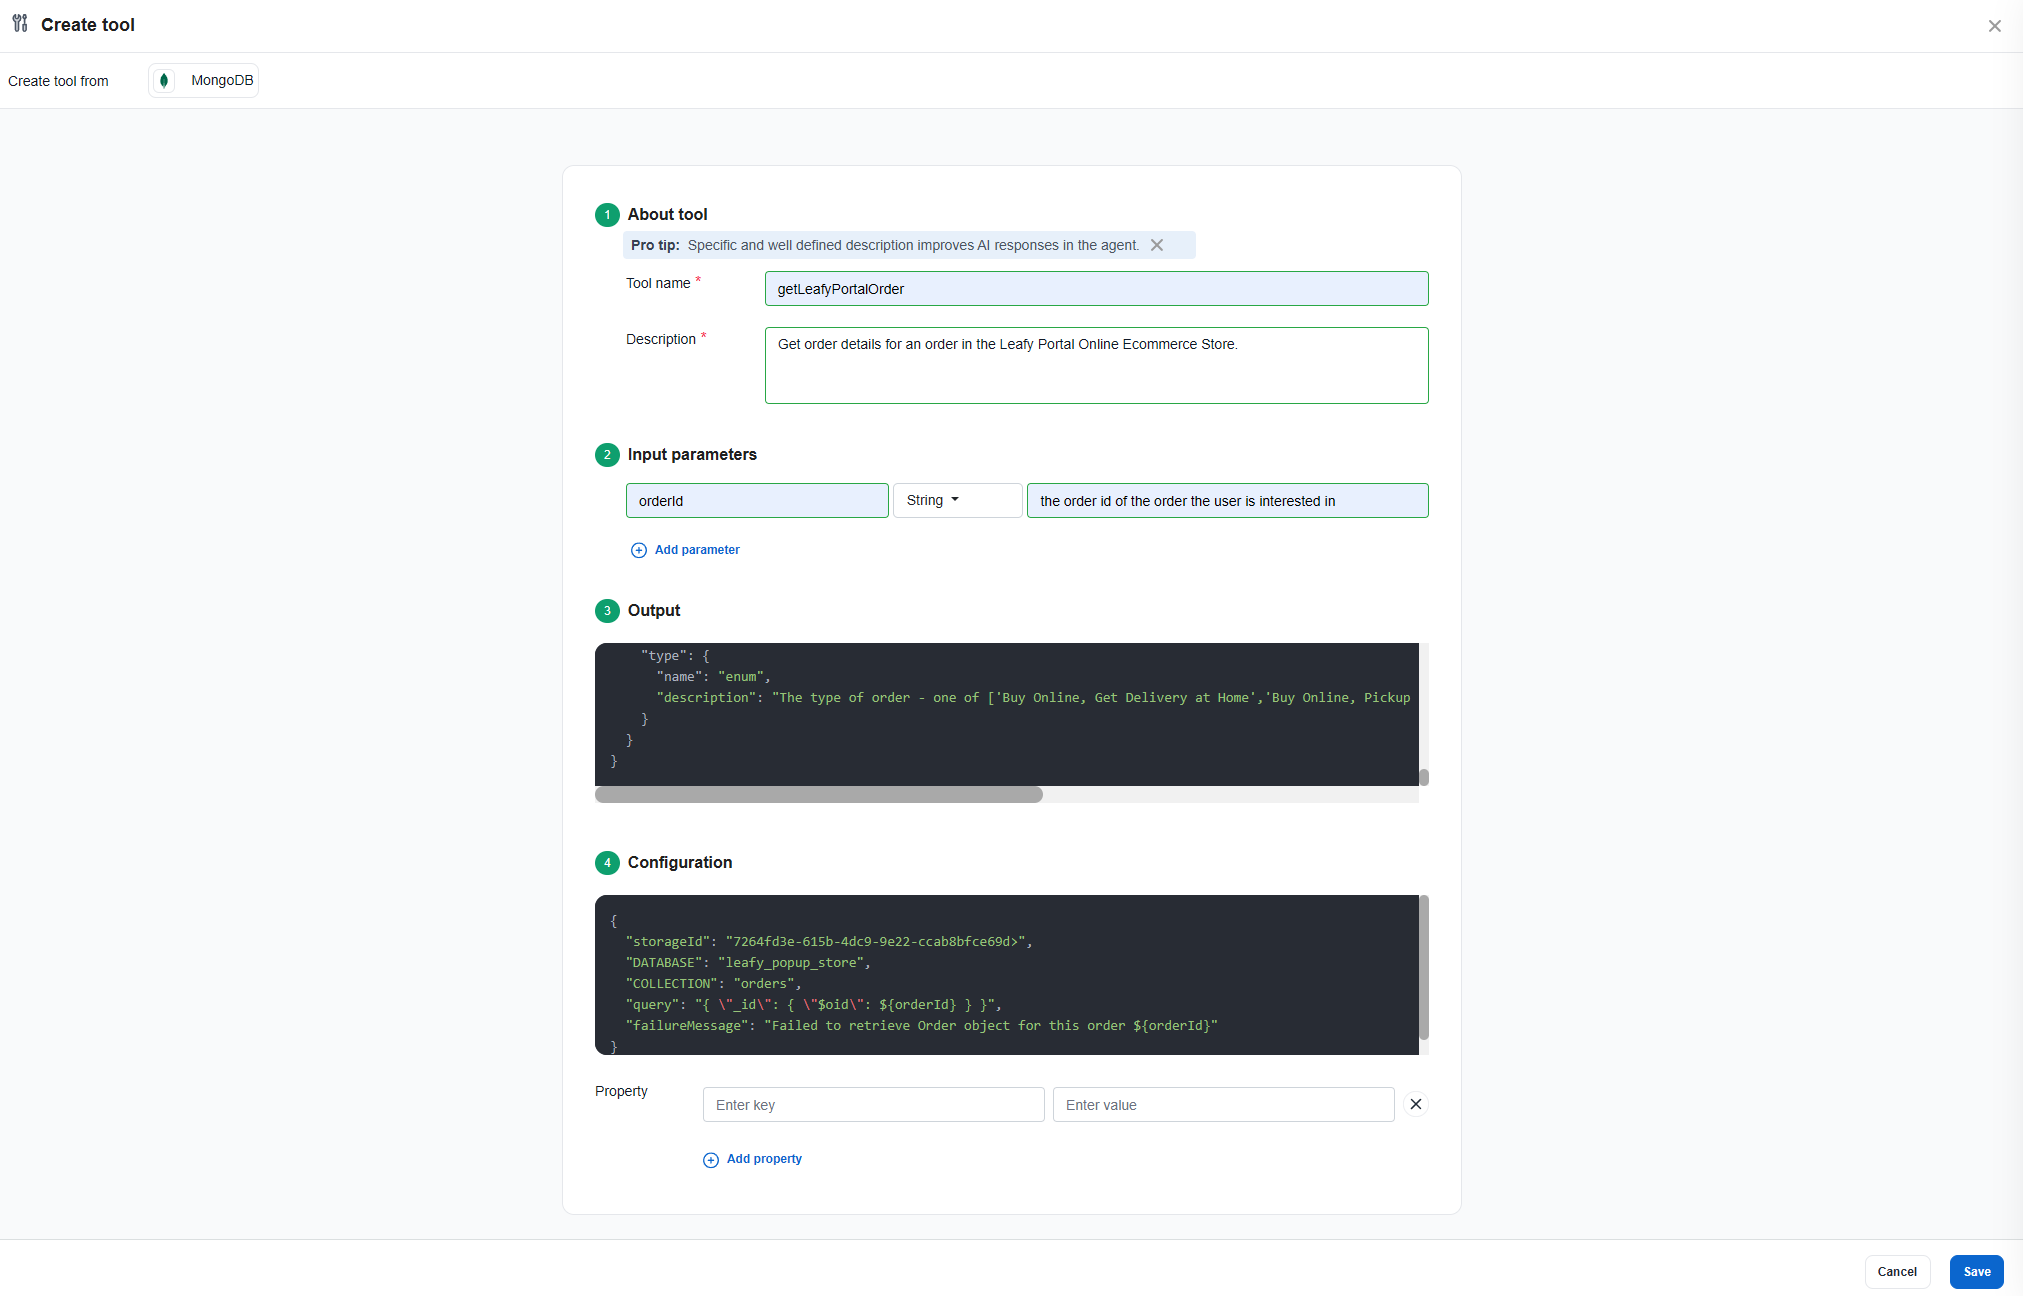
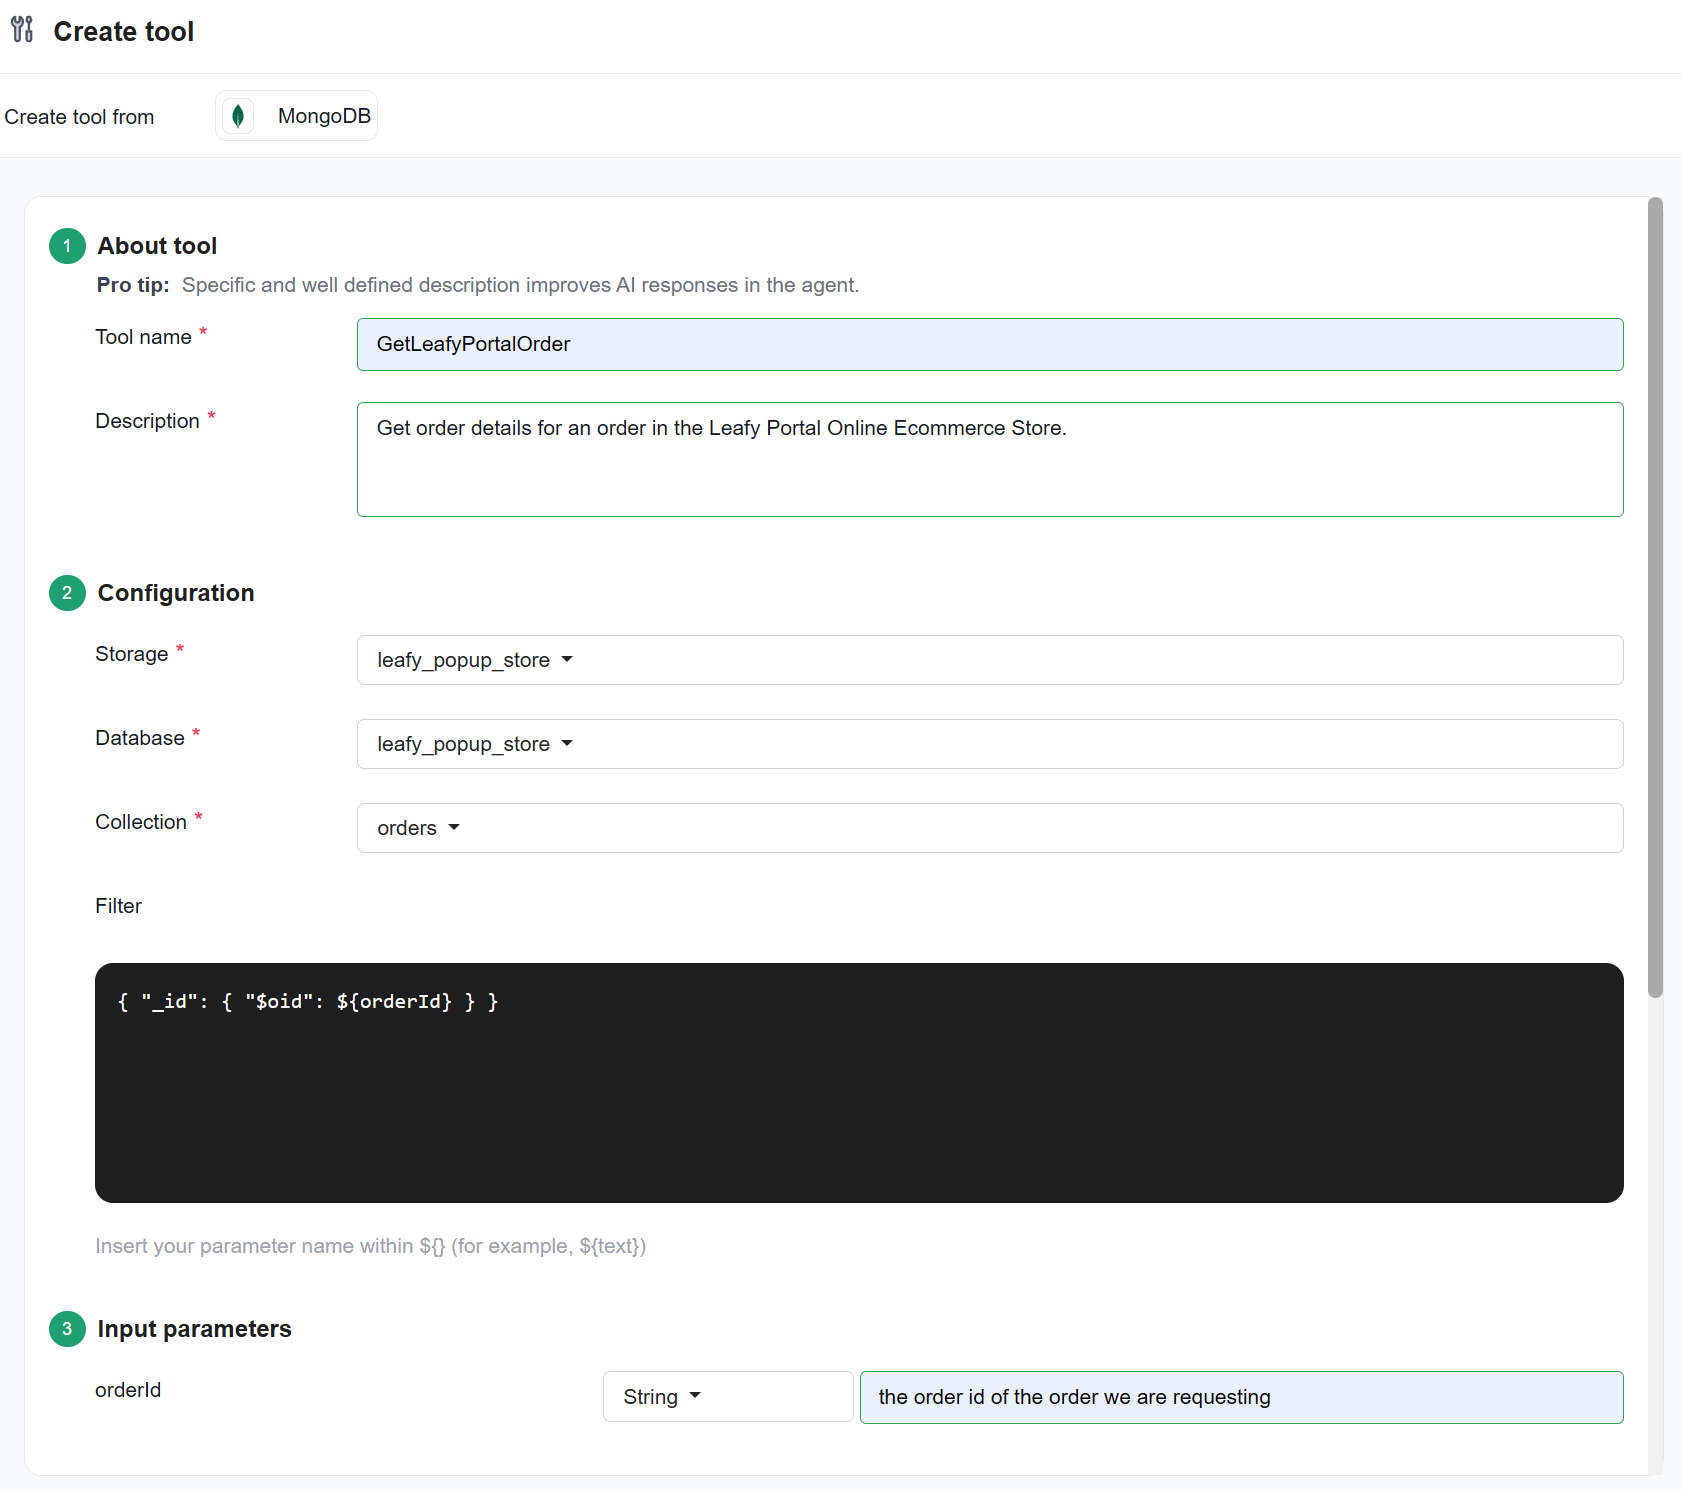
Dev (#35)
* Changes for new Agent API and steps for configuring Dataworkz

* Cleanded up agent integration and moved README to sub-folder for demo
separation

* Added images

* Added rest of the images and fixed broken images

* Fixing title

* Updated conclusion

* Removed mongo credentials from mongodb connection string

* Images and updated README.md

* Updated with review feedback

* Updated formatting

* Dataworkz 2 1 release update (#34)

* Changes to README.md for Dataworkz 2.1 release

* Fixes to README.md for Dataworkz 2.1 release

* Updated output message for clarity

* bring latest main changes

---------

---------

diff --git a/resources/chatbot/README.md b/resources/chatbot/README.md
@@ -150,6 +150,7 @@ AWS Secret: <your aws secret>
 Max Response Length: 600
 Temperature: 0.0
 ```
+- You can copy the id of the LLM Configuration which will be used later to populate the .env.local file
 
 #### Step 4.1.2. Create RAG Application
 - Click on `RAG Applications` in the main menu
@@ -157,30 +158,20 @@ Temperature: 0.0
 
 ![Create RAG App](./media/dw_rag_app.png)
 
-- In RAG App Name provide the following value - `Leafy_Portal_Policies`
+- Select the option 'Create with Default settings' in the dialog that launches
+
+![Create RAG App - Default](./media/dw_rag_app_default_settings.png)
+
+- In RAG Application Name provide the following value - `Leafy_Portal_Policies`
 - Pick the LLM you configured in the previous step 
-- Click `Next`
+- Click `Upload from computer`
+Note: You will likely see a different value for 'Source limit' specific to your account.
 
 ![Create RAG App - 2](./media/dw_rag_app_1.png)
 
-- On the next screen pick `Ingest new dataset` and press `Continue` 
-
-![Create RAG App - 3](./media/dw_rag_app_2.png)
-
-- On the next screen ensure File Type is PDF and in Datastorage choose `Upload from your computer`
-
-![Create RAG App - 4](./media/dw_rag_app_3.png)
-
-- Click on `Choose Files` and locate the file `LeafyCorpPolicy.pdf` in the `resources` folder where you cloned this repo
-- Click `Upload` and then once the upload is complete click `Save`
-
-![Create RAG App - 5](./media/dw_rag_app_4.png)
-
-- You can now click `Next`. The next page is the 'Chunk & Vectorize' page where you can change Embedding models and pick a different data processing flow. For now, you can use the defaults and choose `Next`. The next page configures the Retrieval pipeline which allows for a host of configuration on how retrieval should work. Again, for now, the defaults are good and you can click `Review & Submit` and then `Save`.
-
-![Create RAG App - 6](./media/dw_rag_app_5.png)
-
-- Once the wizard is successful, it will add an entry to the RAG Applications table for the Leafy_Portal_Policies RAG Applications. Give it a few minutes to complete ingesting, chunking, vectorizing and creating the App. When the RAG App is ready, the search action will enable and all sections say `View Details`.
+- Locate the file `LeafyCorpPolicy.pdf` in the `resources` folder where you cloned this repo
+- Wait for the upload to complete and then choose `Create App`
+- It will add an entry to the RAG Applications table for the Leafy_Portal_Policies RAG Applications. Give it a few minutes to complete ingesting, chunking, vectorizing and creating the App. When the RAG App is ready, the search action will enable and all sections say `View Details`.
 
 ![Create RAG App - 7](./media/dw_rag_app_6.png)
 
@@ -201,6 +192,7 @@ Now that we have our RAG Application, lets wrap it in a Tool so it is available 
 ![Create AI App Tool](./media/dw_agent_1.png)
 
 - From the list of options select `AI app`
+Note: You might see a different list depending on changes to the list of tools
 
 ![Create AI App Tool - 1](./media/dw_agent_1a.png)
 
@@ -222,7 +214,7 @@ You have created the RAG Application as a tool for Agents to use!
 We need to provide Agents access to the Mongo data. For this we are going to connect to the MongoDB and create a Tool for the Agent to use.
 
 ### Step 4.3.1. Setup MongoDB connection within Dataworkz
-- Head over to https://ragapps.dataworkz.com and login to your account. Click on the the gear icon on the top right (the tooltip says Configurations)
+- Click on the the gear icon on the top right (the tooltip says Configurations)
 
 ![Create AI App Tool](./media/dw_agent_2.png)
 
@@ -250,10 +242,6 @@ Password: agenticragmadeeasy
 
 In the list of MongoDB connections, you should now see the entry you just created. 
 
-Copy the id with the button that is against the Storage name - we will need this in the next section.
-
-![Copy Config id](./media/dw_agent_4a.png)
-
 ### Step 4.3.2. Create Tool to connect to MongoDB
 Dataworkz Agents are composed of Tools. In this step, we will create a MongoDB tool for our `orders` collection. This will allow our Agent access to our MongoDB data. Our MongoDB Tool returns an Order object (details of an order) for a specified orderId. Therefore, we will make orderId a parameter to the tool that will be passed to it during execution by the Agent. The Agent will extract the orderId from the user's question or the conversation history.
 
@@ -265,13 +253,19 @@ Dataworkz Agents are composed of Tools. In this step, we will create a MongoDB t
 Tool name: GetLeafyPortalOrder
 Description: Get order details for an order in the Leafy Portal Online Ecommerce Store.
 ```
-- In the `Input Parameters` section add the following. Our tool takes in an orderId and returns an Order object. The orderId is a parameter to the tool that the agent will fill in based on the user's conversation with the Agent. 
+- In the `Configuration` section we are going to select our `orders` collection. Pick the MongoDB configuration that you had created in the previous section. Then pick the database - `leafy_popup_store` and finally pick the `orders` collection.
+- In the Filter section we are going to specify the bson filter that will let us query for a given order using its orderId. We will parameterize the orderId and refer to it using the format `${orderId}`
+```
+{ "_id": { "$oid": ${orderId} } }
+```
+- You should see the Input parameters section get automatically populated with a single entry for `orderId`. Specify a description for orderId to help the Agent understand what it is.
 ```
 Name: orderId
-Type: Choose String
+Type: String
 Description: the order id of the order the user is interested in
 ```
-- In the `Output` section pase the following json. It describes the output of a single order object
+- Leave the Projections section blank
+- In the `Output` section replace the contents with the following json. It describes the output of a single order object
 ```json
 {
   "name": "Order",
@@ -287,7 +281,7 @@ Description: the order id of the order the user is interested in
     },
     "status_history": {
       "name": "StatusHistory[]",
-      "description": "the list of changes to the status of the order with the date. The current status is the most recent value",
+      "description": "the list of changes to the status of the order with the date. Each status change has the status name and the timestamp at which it changed. The current status of he order is the most recent change.",
       "fields": {
         "status": {
           "name": "string",
@@ -295,7 +289,7 @@ Description: the order id of the order the user is interested in
         },
         "timestamp": {
           "name": "integer",
-          "description": "the epoch value (milliseconds) of the time at which the status change was made"
+          "description": "the epoch value (milliseconds) of the time at which the status change was made. The most recent value is the current status"
         }
       }
     },
@@ -346,18 +340,12 @@ Description: the order id of the order the user is interested in
   }
 }
 ```
-- In the `Configuration` section paste the following json. We are providing details such as what MongoDB connection to use, what database and collection and finally what is the bson query that should be executed. In this case, we are fetching the order object corresponding to the orderId the tool received. 
-```json
-{
-  "storageId": "<paste the MongoDB connection id from the previous section here - it looks something like this - 7264fd3e-615b-4dc9-9e22-ccab8bfce69d>",
-  "DATABASE": "leafy_popup_store",
-  "COLLECTION": "orders",
-  "query": "{ \"_id\": { \"$oid\": ${orderId} } }",
-  "failureMessage": "Failed to retrieve Order object for this order ${orderId}"
-}
-``` 
 
 ![Create Mongo Tool](./media/dw_agent_5.png)
+
+- We are now ready to test our MongoDB Tool. On the right side section, provide the value `675754fce4caed6fae71f003` for orderId. This is a known orderId in the MongoDB orders collection and we are expecting to see a result when we `Test`. On Test you should see the result that fetches the order details of that orderId.
+
+![Create Mongo Tool](./media/dw_agent_5a.png)
 
 - Save
 
@@ -378,6 +366,7 @@ Users should be able to do the following -
 ![Create Agent](./media/dw_agent_6.png)
 
 - Click on `Create`. The Agent Builder will take a few moments to process and analyze this input. Once it is done you will see the Agent specification that describes the behaviour of the agent. You should see 2 scenarios (your specific scenarios may be named differently from the example here because the Agent Builder generates different text in each run) - one that is an `FAQ` (or similar) and one that is `OrderOperations` (or similar). Other scenarios generated are common to all Agents.
+Note: Your agent name may be different - it is generated by the AgentBuilder. You can edit to provide a name of your liking.
 
 ![Create Agent](./media/dw_agent_7.png)
 
@@ -389,6 +378,10 @@ Users should be able to do the following -
 
 ![Create Agent](./media/dw_agent_7b.png)
 
+- We also want to add the `GetLeafyPortalPolicyDetails` tool this scenario so it has access to the store policies. Repeat the steps of clicking on `View all tools` and locating `GetLeafyPortalPolicyDetails` and clicking on `Use this tool` to add it to this scenario.
+
+![Create Agent](./media/dw_agent_7c.png)
+
 - Let's do one more step to make the result of the chatbot a little better. Click on the `OrderOperations` scenario and click on Instructions (not Planning Instructions). Replace the contents with these - 
 ```
 If the user requests full order details then ONLY in that case you MUST respond in this format - Type: Show type\nStatus: Show the most recent status from status_history\nShipping Address: Show shipping address\nProducts: List a numbered list of products with each on a new line
@@ -397,7 +390,7 @@ If the user requests full order details then ONLY in that case you MUST respond 
 
 ![Create Agent](./media/dw_agent_8.png)
 
-- Click on the `Test` tab on the right section of the page. In the chat box type `What can you do?` - you should see help text about the assistant itself. You can also type `Can you provide details for order 675754fce4caed6fae71f003?` and you should see order details for that order. Something like - 
+- Click on the `Run` tab on the right section of the page. In the chat box type `What can you do?` - you should see help text about the assistant itself. You can also type `Can you provide details for order 675754fce4caed6fae71f003?` and you should see order details for that order. Something like - 
 ```
 Type: Buy Online, Get Delivery at Home
 Status: Delivered
